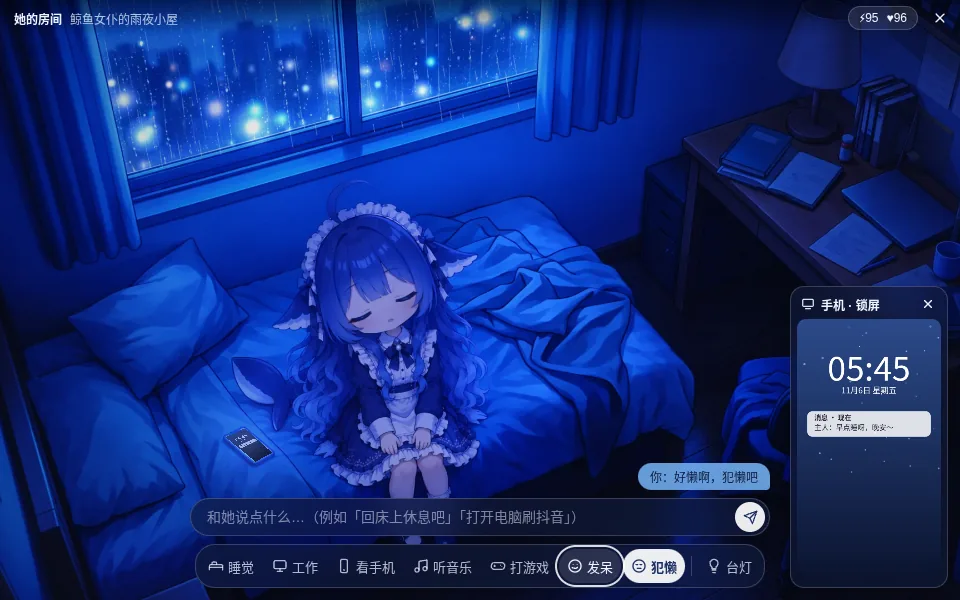
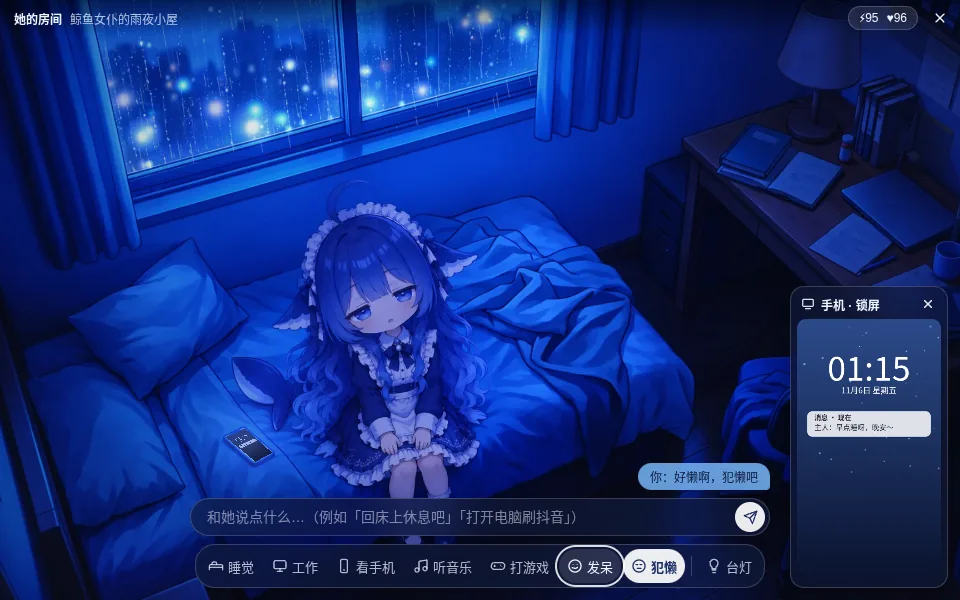
🎨 她的房间 1.0.2：桌边墙暖光加宽加亮、睡觉的尾鳍和其他状态一致，已上传 CDN；像素房间 minAppVersion 改 0.28.0（T-11734）
v0.27.0 的 ENGINES 只有 yard@1，不含 room@1，只改这个元数据，包不变。

diff --git a/games/her-room/art/post.py b/games/her-room/art/post.py
@@ -24,6 +24,34 @@ BODY = {'idle': [(780, 660, 230, 370)], 'idle-lazy': [(780, 660, 230, 370)], 'ph
 BODY_BOX = {'work': (1330, 250, 1810, 890), 'game': (1270, 250, 1790, 890), 'stand': (1180, 480, 1680, 1060)}
 SUBJECT_DIFF = 14
 THRESH = 20; MIN_AREA = 700; GROW = 19; FEATHER = 13
+# 睡觉状态露出被子的尾鳍（世界坐标，人工描边，贴着线稿内侧）：模型把它画得偏灰紫、白边太宽，开灯后又被床沿的暖光洗成灰白。1.0.2 按看手机状态的尾鳍重新上色（亮度直方图匹配 + 取色），开灯时只按固有色受一点光
+FIN_SLEEP = [[[1086, 645], [1105, 605], [1135, 582], [1175, 574], [1167, 625], [1155, 660], [1120, 657], [1098, 652]], [[1098, 667], [1120, 657], [1150, 665], [1170, 695], [1177, 752], [1145, 730], [1110, 700]]]
+FIN_REF = [[698, 362], [735, 362], [795, 390], [805, 355], [840, 320], [880, 314], [877, 350], [860, 400], [825, 432], [795, 442], [750, 435], [715, 415]]  # 看手机状态的尾鳍
+FIN_LIT = 0.25
+def poly_mask(polys, blur=1.0):
+    m = np.zeros((H, W), np.uint8)
+    for p in polys: cv2.fillPoly(m, [np.array(p, np.int32)], 255)
+    return cv2.GaussianBlur(m, (0, 0), blur).astype(np.float32) / 255
+def fin_recolor(off, ref):
+    """off 的尾鳍 → 同样的明暗结构，用 ref（看手机状态）尾鳍的颜色：按亮度分位数对应"""
+    from warm import lin
+    a = poly_mask(FIN_SLEEP); hard = a > 0.5
+    rm = poly_mask([FIN_REF], 0.5) > 0.9
+    luma = lambda im: im[..., 0] * 0.114 + im[..., 1] * 0.587 + im[..., 2] * 0.299
+    rp = ref[rm].astype(np.float32); ro = np.argsort(luma(rp)); rp = rp[ro]
+    sl = luma(off.astype(np.float32)); rank = np.argsort(np.argsort(sl[hard]))
+    out = off.astype(np.float32).copy()
+    out[hard] = rp[(rank * (len(rp) - 1) / max(1, hard.sum() - 1)).astype(int)]
+    # 分位对应是逐像素的，上色后轻微模糊掉噪点，线稿不在这个范围里
+    out = cv2.GaussianBlur(out, (0, 0), 0.8)
+    return (out * a[..., None] + off * (1 - a[..., None])).round().astype(np.uint8)
+def fin_lit(lit, off_fixed):
+    """开灯：线性空间里 固有色（off ÷ 月光）× 灯色 × 固定受光量，蓝的还是蓝的、白边微暖"""
+    from warm import lin, srgb, MOON_RGB, LAMP_RGB
+    a = poly_mask(FIN_SLEEP)[..., None]
+    l = lin(off_fixed)[..., ::-1]
+    f = srgb(l + np.clip(l / MOON_RGB, 0, 1) * LAMP_RGB * FIN_LIT)[..., ::-1].astype(np.float32)
+    return (f * a + lit * (1 - a)).round().astype(np.uint8)
 def raw(n): return f'raw/{n}.png' if os.path.exists(f'raw/{n}.png') else f'raw/{n}.webp'
 def load(n): return cv2.resize(cv2.imread(raw(n), cv2.IMREAD_COLOR), (W, H), interpolation=cv2.INTER_AREA)
 def crop(im, b): x0, y0, x1, y1 = b; return im[y0:y1, x0:x1].astype(np.float32)
@@ -86,7 +114,11 @@ if __name__ == '__main__':
         im = load(n); off, hard = composite(im, base['off'], ROI[s])
         lit_src, hard_lit = composite(load(f'dafeiyu-{s}-lit'), base['lit'], ROI[s])
         sub = subject_mask(s, off, base['off'])
+        if s == 'sleep':
+            ref_off, _ = composite(load('dafeiyu-phone-off'), base['off'], ROI['phone'])
+            off = fin_recolor(off, ref_off)
         lit = relight(off, lit_src, sub, subject_lit=s in BODY_BOX)
+        if s == 'sleep': lit = fin_lit(lit, off)
         cv2.imwrite(f'out/{n}.webp', off, [cv2.IMWRITE_WEBP_QUALITY, 88])
         cv2.imwrite(f'out/dafeiyu-{s}-lit.webp', lit, [cv2.IMWRITE_WEBP_QUALITY, 88])
         cv2.imwrite(f'out/subject-{s}.png', (sub * 255).astype(np.uint8))

diff --git a/games/her-room/art/sheets.py b/games/her-room/art/sheets.py
@@ -69,7 +69,7 @@ REF_BED, REF_DESK = tile(1, 2), tile(3, 1)
 cells = []
 for s, n in NAMES.items():
     desk = s in ('work', 'game', 'stand')
-    cells += [(REF_DESK if desk else REF_BED, f'参考开灯帧（{"书桌" if desk else "床上"}）'), (O(f'dafeiyu-{s}-lit'), f'1.0.1 {n} · 台灯开')]
+    cells += [(REF_DESK if desk else REF_BED, f'参考开灯帧（{"书桌" if desk else "床上"}）'), (O(f'dafeiyu-{s}-lit'), f'1.0.2 {n} · 台灯开')]
 grid(cells, 4, 640, 360, '开灯帧 vs 参考录屏的开灯帧').save('preview/lit-vs-ref.jpg', quality=88)
 # 逐状态的光照数值：床左半是否还是饱和的蓝、暖光是否从灯往外渐隐、她身边有没有光晕
 BOX = {'bed-left': (120, 620, 520, 1000), 'bed-edge': (1200, 560, 1330, 720), 'desk': (1400, 230, 1800, 480), 'desk-wall': (1250, 60, 1450, 200), 'floor': (1400, 850, 1560, 1000), 'left-wall': (20, 120, 240, 400)}

diff --git a/games/her-room/art/README.md b/games/her-room/art/README.md
@@ -49,5 +49,6 @@ node ../../../tools/game-pack.js ../pack
 
 - 所有状态的静止部分逐像素取底版（`post.py`）：差异大的区域（她、被她动过的东西）留状态图，窗户内和 ROI 外一律取底版，交叉淡化时只有她在变。探针时窗户区差 7.5/255，现在 ≤ 0.42，全部静止区域 ≤ 2.92。
 - 眨眼贴片：编辑图平移对齐到状态图，整体明暗对齐，四周羽化 6 px。off / lit 共用一个框，引擎按台灯亮度混合。
-- 开灯（`warm.py`，1.0.1 重做）：lit 图从 off 图出发，床这边按「反射率 × 灯色 × 受光量」物理打光，蓝床单、蓝头发受暖光还是蓝的；灯边（书桌、墙、地板）按受光量渐变到模型画的 lit 图，暖光从灯往外渐隐。她的轮廓由 `post.py` 用 GrabCut 求，只用来加她迎光一侧的光（书桌状态下让她整个人用 lit 图）；床和背景不按她抠遮罩，所以没有光晕。闭眼贴片的 lit 版也从 off 贴片打光，`raw/*-blink-lit` 不再用。
+- 开灯（`warm.py`，1.0.1 重做）：lit 图从 off 图出发，床这边按「反射率 × 灯色 × 受光量」物理打光，蓝床单、蓝头发受暖光还是蓝的；灯边（书桌、墙、地板）按受光量渐变到模型画的 lit 图，暖光从灯往外渐隐。她的轮廓由 `post.py` 用 GrabCut 求，只用来加她迎光一侧的光（书桌状态下让她整个人用 lit 图）；床和背景不按她抠遮罩，所以没有光晕。闭眼贴片的 lit 版也从 off 贴片打光，`raw/*-blink-lit` 不再用。1.0.2 加了桌边墙的暖光（`warm.py` 的 `WALL`：人工标注的墙面范围，边界就是窗帘、床和书桌的轮廓）。
+- 睡觉的尾鳍（`post.py` 的 `FIN_SLEEP`，1.0.2）：模型把露出被子的尾鳍画得偏灰紫、白边太宽，这里按看手机状态的尾鳍重新上色，开灯时只按固有色受光。
 - 屏幕四角避开手和头：engine 的屏幕网格盖在插画上，没有前景遮挡层，所以四边形收到不盖住她的位置。

diff --git a/README.md b/README.md
@@ -5,8 +5,8 @@
 | 游戏 | 版本 | 说明 |
 | --- | --- | --- |
 | [像素小院](games/pixel-yard) | 见 [`catalog.json`](catalog.json) | 一座漂在空中的等距像素小院：她自己逛、种菜、摘浆果、抓萤火虫；时段和天气可调；每天三件小事，完成加好感 |
-| [她的房间](games/her-room) | 1.0.1（需要应用 0.28.0，引擎 `illustrated-room@1`） | 日系手绘插画的深夜房间：下雨、蓝色月光、台灯开关。她有七个专门画的姿势，在聊天里叫她做什么，她就去做。本版开放大肥鱼的「鲸鱼女仆的雨夜小屋」 |
-| [像素房间](games/pixel-room) | 1.0.0（需要应用 0.27.0，引擎 `room@1`） | 每位角色一间自己风格的房间：陪她睡觉、工作、看手机、听音乐、打游戏。本版开放大肥鱼的「鲸鱼女仆的蓝色小屋」，另外四间即将开放 |
+| [她的房间](games/her-room) | 1.0.2（需要应用 0.28.0，引擎 `illustrated-room@1`） | 日系手绘插画的深夜房间：下雨、蓝色月光、台灯开关。她有七个专门画的姿势，在聊天里叫她做什么，她就去做。本版开放大肥鱼的「鲸鱼女仆的雨夜小屋」 |
+| [像素房间](games/pixel-room) | 1.0.0（需要应用 0.28.0，引擎 `room@1`） | 每位角色一间自己风格的房间：陪她睡觉、工作、看手机、听音乐、打游戏。本版开放大肥鱼的「鲸鱼女仆的蓝色小屋」，另外四间即将开放 |
 
 「像素房间」开发时叫「她的房间」，上架前改了名（id `pixel-room`）；「她的房间」这个名字和 `her-room` 这个 id 现在是插画风新游戏。
 

diff --git a/games/her-room/CHANGELOG.md b/games/her-room/CHANGELOG.md
@@ -1,5 +1,9 @@
 # 她的房间 · 更新记录
 
+## 1.0.2 · 2026-11-06
+
+开灯时桌边那面墙亮起来了：暖光从台灯铺开，一直到窗帘边和床后面，床、窗帘和左半边房间还是饱和的蓝色。睡觉时露出被子的尾鳍换回和其他姿势一样的深蓝色和浅色下缘，开灯也不再发灰。
+
 ## 1.0.1 · 2026-11-06
 
 开灯的光照重做了：床、被子和左半边房间保持饱和的蓝色月光，暖黄光从台灯向外渐隐，铺满书桌、桌边的墙和地板，落到床沿和她朝向台灯的一侧；她身边不再有光晕和蓝色色块，蓝发和女仆装也不再被洗成灰紫。
